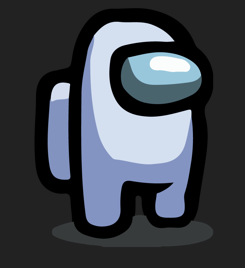
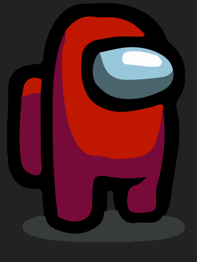
Adding more elements

diff --git a/jsproject.js b/jsproject.js
@@ -67,7 +67,7 @@ async function hideSelect(event)
             break;
         
         case "Resources/characterFour.png":
-            chatColor = "Resources/whiteChat.png";
+            chatColor = "Resources/redChat.png";
             break;
         
         case "Resources/characterFive.png":
@@ -199,7 +199,7 @@ async function chat()
     $("#chat").show();
     let comment = document.createElement("div");
     comment.id = "otherCommentOne";
-    comment.innerText = "Red was kind of sus"
+    comment.innerText = "White was kind of sus"
 
 
     let commentTwo = document.createElement("div");
@@ -225,7 +225,7 @@ async function chat()
     $("#chat").append(chatButton);
 }
 
-function submitChat()
+async function submitChat()
 {
     let comment = document.createElement("div");
     comment.id = "myComment";
@@ -235,6 +235,34 @@ function submitChat()
     $("#chatButton").remove();
     chatSound.play();
     $("#chat").append(comment);
+
+    let commentThree = document.createElement("div");
+    commentThree.id = "otherCommentTwo";
+    commentThree.innerText = "I can vouch for you, let's vote white";
+
+    await sleep(3000);
+    chatSound.play();
+    $("#chat").append(commentThree);
+
+    await sleep(2000);
+    let vote = document.createElement("button");
+    vote.id = "voteButton";
+    vote.innerText = "Vote White";
+    vote.onclick = voteClick;
+    $("#chat").append(vote);
+}
+
+async function voteClick()
+{
+    $("#chat").remove();
+    let eject = document.createElement("img");
+    eject.src = "Resources/amongusejected.gif";
+    eject.alt = "meeting";
+    eject.width = "1500";
+    eject.height = "550";
+    $("#content").append(eject);
+    await sleep(5000);
+    $(eject).remove();
 }
 
 

diff --git a/jsstyle.css b/jsstyle.css
@@ -226,6 +226,22 @@ body {
   font-size: 35px;
 }
 
+#voteButton {
+  display: block;
+  margin-left: auto;
+  margin-right: auto;
+  margin-top: 50px;
+  height: 75px;
+  width: 200px;
+  border-radius: 8px;
+  font-size: larger;
+}
+
+#voteButton:hover {
+  cursor: pointer;
+  background-color: red;
+}
+
 @font-face {
   font-family: amongus-title;
   src: url(Resources/AmongUs-Regular.ttf);
